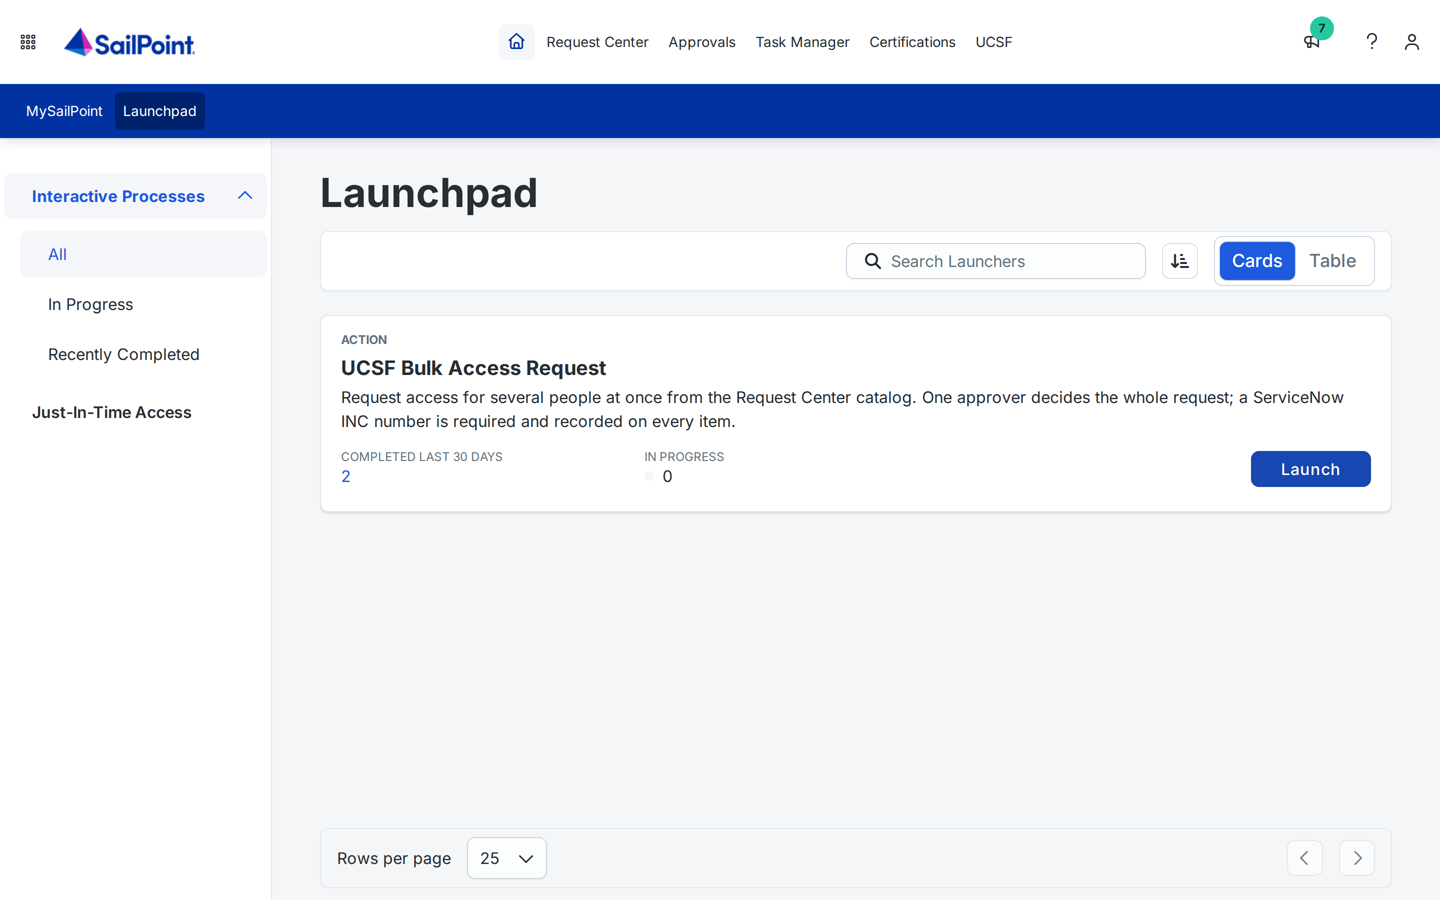
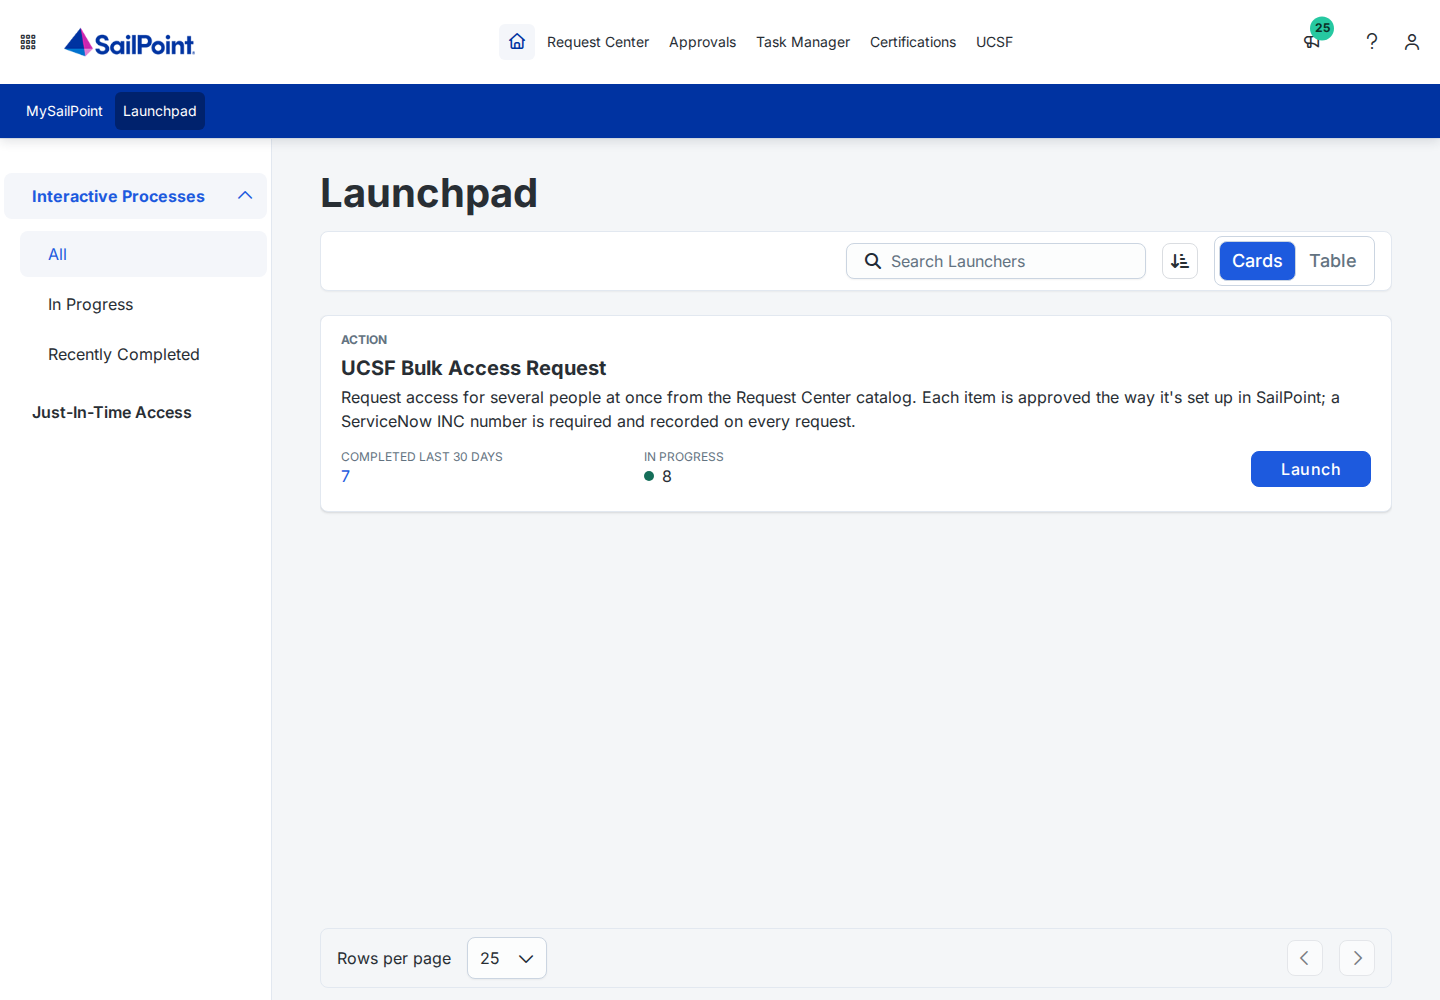
Docs: real screenshots of the whole flow from the test tenant
Plugin request (people, access, INC & details, review with the no-approval and
"already requested" warnings, requested), My bulk requests before and after approval,
Request Center My Requests, ISC Approvals, the plugin's Approvals tab (list, opened,
confirm, result), the Launchpad (launch, form, INC error, filled, requested) and the
Request Center with the Launcher Access profile's new description. USAGE, the
end-to-end walkthrough, README and plugin/README use them.

diff --git a/USAGE.md b/USAGE.md
@@ -1,8 +1,9 @@
 # Using Bulk Access Request
 
-Guides for requesters, approvers and admins, following one bulk request from start to finish. The `isc-*` screenshots
-are real SailPoint screens from a test installation that used the prefix `UCSF` (yours show your own prefix); the
-`plugin-*` ones are the plugin with demo data. They live in [docs/screenshots/](docs/screenshots/). For the same
+Guides for requesters, approvers and admins, following one bulk request from start to finish. The `isc-*` and
+`launcher-*` screenshots are real SailPoint screens from a test installation that used the prefix `UCSF` (yours show your
+own prefix): one bulk request, INC0151100, for four people and two test items, followed from submit to approval. The
+`plugin-*` ones are the plugin with demo data, for what a small test tenant can't show (hundreds of people). They live in [docs/screenshots/](docs/screenshots/). For the same
 lifecycle with the APIs and ISC features behind each step, see
 [docs/sailpoint/END_TO_END_WALKTHROUGH.md](docs/sailpoint/END_TO_END_WALKTHROUGH.md).
 
@@ -45,26 +46,26 @@ Launcher instead; it then fills in and submits the Launcher's form for you.)
 1. **People.** Search, or paste a list of usernames, emails or identity IDs (one per line). There's no upper limit
    unless your admin set one.
 
-   ![Plugin, step 1: people found by search and by a pasted list](docs/screenshots/plugin-1-people.png)
+   ![Plugin, step 1: four people chosen, a search open](docs/screenshots/isc-10-plugin-people.png)
 2. **Access.** Pick one or more items from the Request Center catalog. *Everyone* gets *every* item chosen here.
    Items SailPoint grants without any approval say so: *"No approval: granted right away"*.
 
-   ![Plugin, step 2: two items chosen](docs/screenshots/plugin-2-items.png)
+   ![Plugin, step 2: two items chosen; one is granted without approval](docs/screenshots/isc-11-plugin-access.png)
 3. **INC and details.** The ServiceNow INC number, a justification (up to 1,000 characters), and how long the access
    should last: **Permanent**, **for a duration** (a whole number and hours, days, weeks or months) or **until a date**
    (the end of that day, your local time). Your admin may turn some of these off, or cap how long temporary access can
    last.
 
-   ![Plugin, step 3: INC and justification](docs/screenshots/plugin-3-inc-details.png)
+   ![Plugin, step 3: INC, justification and temporary access for 1 day](docs/screenshots/isc-12-plugin-inc-details.png)
 4. **Review and submit.** The review says how many access requests SailPoint will file and how long the access lasts,
    warns about people who already have an item, and warns about items that have no approval of their own (everyone gets
    those as soon as they're requested). **Request access** (in dry-run mode: **Check it (dry run)**).
 
-   ![Plugin, step 4: review, with the no-approval warning](docs/screenshots/plugin-4-review.png)
+   ![Plugin, step 4: review, with the no-approval and "already requested" warnings](docs/screenshots/isc-13-plugin-review.png)
 5. The page then says how many access requests it filed (and how many SailPoint skipped because the same request was
    already pending). Each one now goes through its item's own approval; follow them on **My bulk requests**.
 
-   ![Plugin: requested](docs/screenshots/plugin-5-submitted.png)
+   ![Plugin: 8 access requests filed](docs/screenshots/isc-14-plugin-requested.png)
 
 **Big lists.** SailPoint takes at most 10 people per access request, so the plugin sends a long list as several requests
 (a few at a time), all with the same INC, items, justification and access. If some can't be sent, the page lists them
@@ -80,7 +81,13 @@ as several Launcher runs instead, shown on the review step; an end date then rea
 time. Either way the remove date is set on every access request, so a slow item approval doesn't move it.
 
 ### From the Launchpad form
-**Launchpad → "<prefix> Bulk Access Request"** → **Launch**. A form opens:
+**Launchpad → "<prefix> Bulk Access Request"** → **Launch**, and **Launch** again to confirm.
+
+![Launch the Launcher](docs/screenshots/launcher-1-launch.png)
+
+A form opens:
+
+![The Launchpad form](docs/screenshots/launcher-2-form.png)
 
 | Field | What to enter |
 |---|---|
@@ -90,6 +97,14 @@ time. Either way the remove date is set on every access request, so a slow item 
 | **Duration** and **unit** | For temporary access: a whole number of 1 or more, and hours, days, weeks or months (your admin may offer fewer units). |
 | **ServiceNow incident (INC) number** | For example `INC0012345`. The form won't submit until the format is right. |
 | **Business justification** | Shown to the item approvers and stored on every request |
+
+The form checks the INC format when you submit:
+
+![The INC is checked on Submit](docs/screenshots/launcher-3-inc-validation.png)
+
+| Filled in, temporary for 1 day | Submitted |
+|---|---|
+| ![Form filled in](docs/screenshots/launcher-4-form-filled.png) | ![Requested](docs/screenshots/launcher-5-requested.png) |
 
 **Submit.** The Launchpad says the access was requested (in dry-run mode: checked), and you get a **Requested** email.
 If the duration isn't valid (not a whole number, or longer than your admin allows), the Launchpad says so and nothing is
@@ -108,7 +123,7 @@ item and only its end date changes. The comment carries the INC, the requester, 
 `INC0055504 | Bulk access request by … | Temporary: 1 day | …`. (Requests filed while bulk requests still had their own
 approver also carry `Approved by …` after the requester; the plugin reads both.)
 
-![ISC Approvals → Access Requests: one card per person](docs/screenshots/isc-30-approvals-item-cards.png)
+![ISC Approvals → Access Requests: one card per person. Requested by bulk.requester.test (the plugin) or hack.day (the workflow owner, for the Launchpad request)](docs/screenshots/isc-30-approvals-item-cards.png)
 
 ### In the plugin: the Approvals tab
 Open the **<prefix> Bulk Access Request** plugin and its **Approvals** tab to decide a whole bulk request at once. Any
@@ -117,7 +132,7 @@ approver can use it, admin or not (your admin must have made the plugin visible 
 1. Each card is one bulk request: the **INC**, how many approvals, people and items, the access (permanent or temporary)
    and who asked for it.
 
-   ![Plugin Approvals tab: one bulk request waiting](docs/screenshots/isc-40-plugin-approvals.png)
+   ![Plugin Approvals tab: two bulk requests waiting](docs/screenshots/isc-40-plugin-approvals.png)
 2. Open a card to check the list. Untick anyone you don't want to decide now; they stay pending. Write one comment
    (needed to deny), then **Approve N** or **Deny N**.
 
@@ -130,7 +145,7 @@ approver can use it, admin or not (your admin must have made the plugin visible 
    **Decided** (some by someone else, such as a colleague in the same approval group), **Partly done** or **Not done**.
    **Retry** sends the failed and still-pending ones again.
 
-   ![Approved: 2 approved by you](docs/screenshots/isc-43-plugin-approvals-result.png)
+   ![Approved: 4 approved by you](docs/screenshots/isc-43-plugin-approvals-result.png)
 
    With many approvals (demo data):
 
@@ -146,12 +161,17 @@ Every decision is recorded as **yours**, exactly as if you had used SailPoint's 
 **Use the plugin's My bulk requests tab.** It lists the access requests you filed from the plugin, grouped by INC
 (filter by INC at the top). Each INC shows how many people and items, how many are waiting, done or not granted, and
 the justification; open it to see every person × item with its status (**Waiting for <approver>**, **Provisioning**,
-**Done**, **Rejected**, …) and, for temporary access, **Temporary until …**. (Demo data.)
+**Done**, **Rejected**, …) and, for temporary access, **Temporary until …**. When SailPoint cancels one, it says why
+(for example *Already has a pending request for this item*).
 
-![My bulk requests](docs/screenshots/plugin-6-my-bulk-requests.png)
+| Waiting for the item's approver | After the approval |
+|---|---|
+| ![My bulk requests: waiting](docs/screenshots/isc-15-plugin-my-bulk-requests-waiting.png) | ![My bulk requests: done](docs/screenshots/isc-50-plugin-my-bulk-requests-approved.png) |
 
 Because the plugin files the requests as you, they're also in your **Request Center → My Requests**, one per person and
 item, with the INC in the comment.
+
+![Request Center, My Requests](docs/screenshots/isc-20-requester-my-requests.png)
 
 **Requests from the Launchpad are different.** The Launcher's workflow files them, so SailPoint lists them under the
 **workflow owner** (the account the tool was installed with), not under you: they're not in your Request Center or in

diff --git a/docs/sailpoint/END_TO_END_WALKTHROUGH.md b/docs/sailpoint/END_TO_END_WALKTHROUGH.md
@@ -9,11 +9,12 @@ own are granted right away. The plugin files the access requests itself, as the 
 (`plugin.submit: "direct"`, the default).
 
 About the pictures:
-- The **ISC screens** (`isc-*`) come from the live recording of 2026-10-08 on a test tenant (prefix `UCSF`,
-  `bulk-access-real-e2e.mp4` on the GitHub release `demo-2026-10-09`). That run still had the bulk approver, so only
-  the screens it didn't affect are used here.
-- The **plugin screens** (`plugin-*`) come from the plugin's demo mode (made-up data, prefix `ACME`), regenerated for
-  the current design.
+- The **ISC screens** (`isc-*`, `launcher-*`) are from a live run on 2026-10-13 on a test tenant (prefix `UCSF`):
+  INC0151100, submitted from the plugin by `bulk.requester.test` for four people and two test items (one granted
+  without approval, one approved by its owner `bulk.approver.test`), and INC0152634 from the Launchpad.
+  (`isc-02` is from the first recording, 2026-10-08.)
+- The **plugin screens** (`plugin-*`) come from the plugin's demo mode (made-up data, prefix `ACME`), for what a test
+  tenant can't show (hundreds of people).
 
 Related: [API_INVENTORY.md](API_INVENTORY.md) (every call, with user levels and scopes) ·
 [REQUIREMENTS_CHECKLIST.md](REQUIREMENTS_CHECKLIST.md) (what to check in a tenant first) ·
@@ -77,9 +78,11 @@ there opens the native form (up to 30 people; see 3b). The plugin is the better 
 | INC & details | The INC (checked against the configured pattern), a justification (≤ 1000 characters), and optionally temporary access (*For a duration* or *Until a date*) | — (rules run in the page) |
 | Review | Checks "already has it" for access profiles and roles, and warns about items that will be granted without approval | `GET /requestable-objects/v1?identity-id=<person>&filters=id in (…)` |
 
-| INC & details | Review, with the no-approval warning |
+| People | Access |
 |---|---|
-| ![INC & details](../screenshots/plugin-3-inc-details.png) | ![Review](../screenshots/plugin-4-review.png) |
+| ![People](../screenshots/isc-10-plugin-people.png) | ![Access](../screenshots/isc-11-plugin-access.png) |
+| **INC & details** | **Review: the no-approval and "already requested" warnings** |
+| ![INC & details](../screenshots/isc-12-plugin-inc-details.png) | ![Review](../screenshots/isc-13-plugin-review.png) |
 
 **Request access** then:
 
@@ -90,7 +93,10 @@ there opens the native form (up to 30 people; see 3b). The plugin is the better 
    - for temporary access, a `removeDate` (now + the duration, or the end of the chosen day).
 3. Shows how many requests were filed, and how many SailPoint skipped because the same request was already open.
 
-![Requested](../screenshots/plugin-5-submitted.png)
+![Requested](../screenshots/isc-14-plugin-requested.png)
+
+Elliot.Reid already had a pending request for the no-approval item, so SailPoint listed his request in `newRequests` but
+cancelled it at once (*"Already has a pending request for this item"*); the review step had warned about it.
 
 A failed call is shown per part and can be retried on its own; a 401/403 stops the rest (the tenant may not let this
 user request access for others, or the session expired). In `mode: "dry-run"` nothing is sent.
@@ -116,6 +122,12 @@ own Launcher):
    `"1d"` etc., `""` = permanent), with the same comment as above;
 4. emails the requester *"Requested: bulk access INC…"* (dry run: *"Checked: … (DRY RUN: nothing was requested)"*).
 
+| Launch | The form |
+|---|---|
+| ![Launch](../screenshots/launcher-1-launch.png) | ![The Launchpad form](../screenshots/launcher-2-form.png) |
+| **INC checked on Submit** | **Requested** |
+| ![INC error](../screenshots/launcher-3-inc-validation.png) | ![Requested](../screenshots/launcher-5-requested.png) |
+
 In launcher mode the plugin drives the same Launcher as the signed-in user, once per part of up to 250 people:
 `POST /launchers/v1/{id}/launch` → `GET /beta/interactive-processes/{id}/blocks` until the `FORM` block appears (the
 same **beta** call ISC's Launchpad makes; see the risk in
@@ -138,7 +150,7 @@ straight away and never reach this step.
 **"Modify: <item>"** when the person already had the item and only the end date changes (the drawer then reads
 *Access Date Change*). The comment carries the INC, the requester, the access type and the justification.
 
-![Approvals → Access Requests (from the 2026-10-08 Launcher run: Requested by is the workflow owner)](../screenshots/isc-30-approvals-item-cards.png)
+![Approvals → Access Requests: Requested by bulk.requester.test for the plugin's requests, hack.day (the workflow owner) for the Launchpad one](../screenshots/isc-30-approvals-item-cards.png)
 
 **In the plugin's Approvals tab:** the approver's pending access-request approvals, grouped by the INC in their comment
 (`GET /generic-approvals/v1?mine=true&include-comments=true&filters=status eq "PENDING" and type eq "ACCESS_REQUEST_APPROVAL"`).
@@ -146,11 +158,11 @@ One comment and one confirmation decide the whole INC; each approval is sent as 
 (`POST /generic-approvals/v1/{id}/approve`, about 8 a second) and then re-read to confirm it. Approvals from before
 2026-10-13 (whose comment still has *"Approved by …"*) group the same way.
 
-| Grouped by INC | Opened: every person × item |
+| Grouped by INC | Opened: every person × item, one comment |
 |---|---|
-| ![Approvals tab](../screenshots/plugin-9-approvals-groups.png) | ![One INC opened](../screenshots/plugin-10-approvals-drilldown.png) |
-| **Confirm** | **Result** |
-| ![Confirm dialog](../screenshots/plugin-11-approvals-confirm.png) | ![Result](../screenshots/plugin-12-approvals-progress-result.png) |
+| ![Approvals tab](../screenshots/isc-40-plugin-approvals.png) | ![One INC opened](../screenshots/isc-41-plugin-approvals-open.png) |
+| **Confirm** | **Result: 4 approved by you** |
+| ![Confirm dialog](../screenshots/isc-42-plugin-approvals-confirm.png) | ![Result](../screenshots/isc-43-plugin-approvals-result.png) |
 
 The decisions are recorded exactly as if made in ISC's Approvals page, and appear under **Access Requests → Reviewed**.
 
@@ -163,7 +175,9 @@ The decisions are recorded exactly as if made in ISC's Approvals page, and appea
 | **Item approvers** | Approvals → Access Requests, or the plugin's Approvals tab | Their own approvals, then *Reviewed* |
 | **Workflow owner** (launcher mode) | Request Center *My Requests* | One request per person, with the INC in the comment |
 
-![My bulk requests](../screenshots/plugin-6-my-bulk-requests.png)
+| My bulk requests: waiting for the item's approver | After the approval | Request Center, My Requests |
+|---|---|---|
+| ![Waiting](../screenshots/isc-15-plugin-my-bulk-requests-waiting.png) | ![Approved](../screenshots/isc-50-plugin-my-bulk-requests-approved.png) | ![My Requests](../screenshots/isc-20-requester-my-requests.png) |
 
 **For audit, search the INC:** it's on every access request's comment (and, in launcher mode, in the workflow's
 execution history and its emails).

diff --git a/README.md b/README.md
@@ -77,18 +77,18 @@ Before installing in a production tenant, check that the tenant offers everythin
 | [End-to-end walkthrough](docs/sailpoint/END_TO_END_WALKTHROUGH.md) | The full lifecycle on a real tenant, step by step: who acts, where in ISC, what they see, and which API or ISC feature is used; plus what each person's Request Center shows before and after approval |
 
 ## Screenshots
-Real SailPoint screens (`docs/screenshots/isc-*`) from a test installation that used the prefix `UCSF` (yours show your
-own prefix), and plugin screens made with demo data (`plugin-*`). [USAGE.md](USAGE.md) walks through them in order.
+Real SailPoint screens (`docs/screenshots/isc-*`, `launcher-*`) from a test installation that used the prefix `UCSF`
+(yours show your own prefix), and plugin screens made with demo data (`plugin-*`). [USAGE.md](USAGE.md) walks through them in order.
 
 | 1. Get the tool (Request Center) | 2. Submit from the plugin |
 |---|---|
-| ![Request Launcher Access in the Request Center](docs/screenshots/isc-01-request-launcher-access.png) | ![The plugin's review step](docs/screenshots/plugin-4-review.png) |
-| *Requesters ask for "Launcher Access" once; it then shows in the Launchpad too* | *People, access, INC, review: filed as the signed-in user (demo data)* |
+| ![Request Launcher Access in the Request Center](docs/screenshots/isc-01-request-launcher-access.png) | ![The plugin's review step](docs/screenshots/isc-13-plugin-review.png) |
+| *Requesters ask for "Launcher Access" once; it then shows in the Launchpad too* | *People, access, INC, review: filed as the signed-in user* |
 
 | 3. Item approvers (plugin Approvals tab) | 4. Track it (plugin My bulk requests) |
 |---|---|
-| ![The plugin's Approvals tab, one INC opened](docs/screenshots/isc-41-plugin-approvals-open.png) | ![My bulk requests](docs/screenshots/plugin-6-my-bulk-requests.png) |
-| *Item owners decide a whole INC at once (or one card per person in ISC)* | *Your access requests by INC, with who each one waits for (demo data)* |
+| ![The plugin's Approvals tab, one INC opened](docs/screenshots/isc-41-plugin-approvals-open.png) | ![My bulk requests](docs/screenshots/isc-15-plugin-my-bulk-requests-waiting.png) |
+| *Item owners decide a whole INC at once (or one card per person in ISC)* | *Your access requests by INC, with who each one waits for* |
 
 More plugin screens (made with sample data, including large requests sent in parts) are in [plugin/README.md](plugin/README.md).
 The demo videos below were recorded before the bulk approver was removed: they still show its step and approval.

diff --git a/plugin/README.md b/plugin/README.md
@@ -101,7 +101,7 @@ lifecycle, with the ISC screens around the plugin, is in [USAGE.md](../USAGE.md)
 
 | | |
 |---|---|
-| ![Approvals tab: one INC waiting](../docs/screenshots/isc-40-plugin-approvals.png) | ![Approvals tab: approved, confirmed](../docs/screenshots/isc-43-plugin-approvals-result.png) |
+| ![Approvals tab: two INCs waiting](../docs/screenshots/isc-40-plugin-approvals.png) | ![Approvals tab: approved, confirmed](../docs/screenshots/isc-43-plugin-approvals-result.png) |
 
 ### With demo data
 The whole page, including large requests and partial results, made with the plugin's demo mode:
